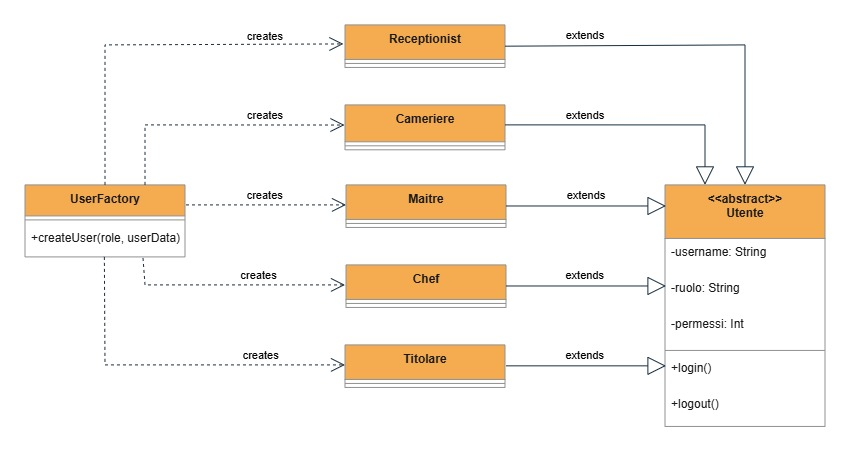
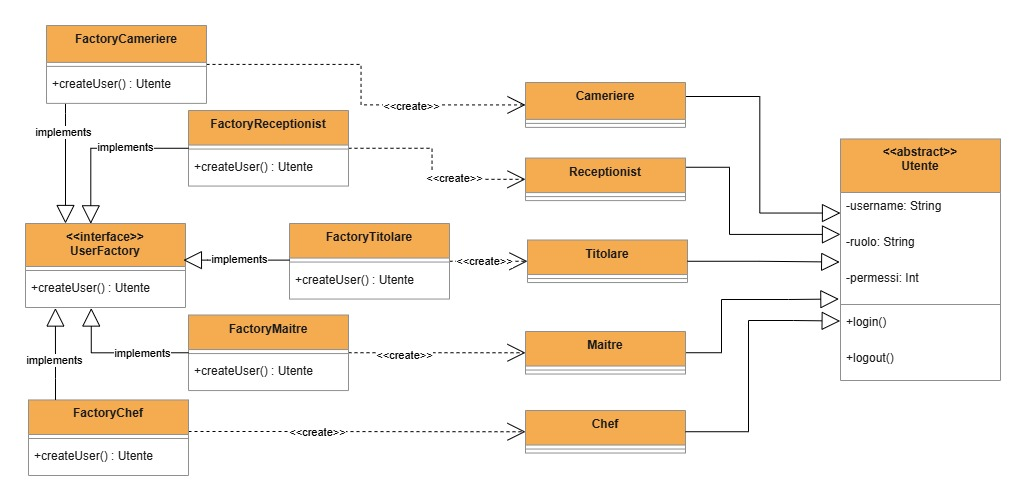
aggiunta DP

diff --git a/Documento di Specifica dei Requisiti.md b/Documento di Specifica dei Requisiti.md
@@ -674,7 +674,7 @@ Questa sezione descrive i design pattern selezionati per la progettazione e impl
 **Applicazione in TableFlow:**
 - **Creazione Utenti:** Implementazione di un metodo factory per istanziare oggetti `Utente` in base al ruolo (Cameriere, Cuoco, Maître, Receptionist, Titolare/General Manager). Ciascun ruolo possiede un set distinto di autorizzazioni definite in RNF03.
 - **Configurazione Dinamica:** Il pattern permette di aggiungere nuovi ruoli futuri (es. Sommelier, Runner, Executive Chef) senza modificare il codice client esistente.
-- **Esempio di Utilizzo:** Il sistema di autenticazione, dopo aver validato le credenziali, invoca `UserFactory.createUser(role, userData)` per ottenere l'istanza corretta con il profilo autorizzativo configurato.
+- **Esempio di Utilizzo:** Il sistema di autenticazione, dopo aver validato le credenziali, invoca `UserFactory.createUser()` per ottenere l'istanza corretta con il profilo autorizzativo configurato.
 
 **Vantaggi per il Sistema:**
 - Isolamento della logica di creazione
@@ -708,6 +708,8 @@ Questa sezione descrive i design pattern selezionati per la progettazione e impl
 - Estensibilità delle funzionalità a runtime
 - Struttura a composizione anziché ereditarietà
 - Supporto a combinazioni complesse di modifiche
+
+![[Decorator_DP.jpg|center|600]]
 
 ### 4. Composite
 **Problema risolto:** Gestione uniforme di strutture gerarchiche parte-tutto, in particolare per la divisione dei conti e l'organizzazione del menu.
